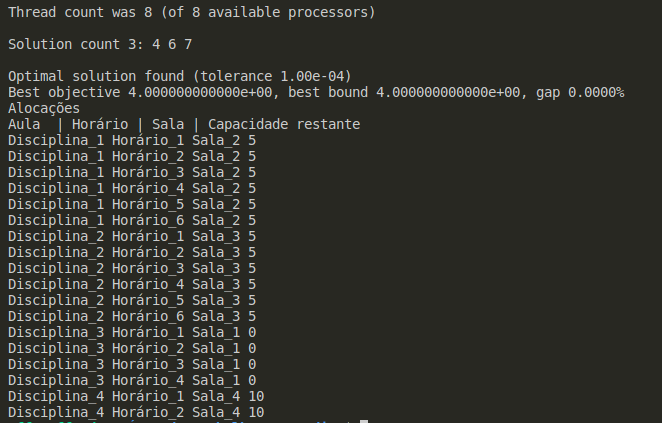
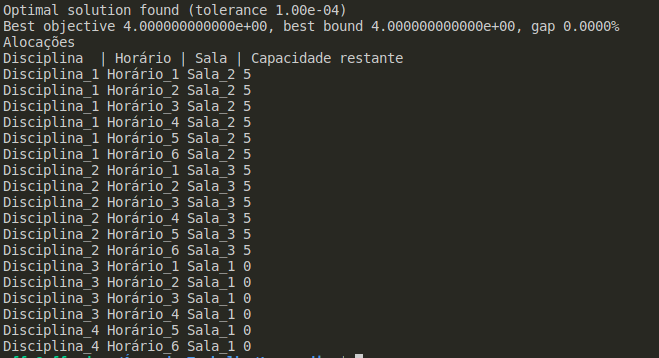
Corrige horarios das aulas nos dados de exemplo

Changed region(s): [[0.0, 0.0, 0.9408, 1.0], [0.5159, 0.9832, 0.5766, 1.0], [0.4552, 0.9832, 0.4856, 1.0]]

diff --git a/pas_v2.py b/pas_v2.py
@@ -46,7 +46,7 @@ vet_aulas.append(aula3)
 
 horarios_aula4 = dict()
 for idx,horario in enumerate(range(4,6)):
-    horarios_aula4["Horário_{}".format(idx+1)]=vet_horarios[idx]
+    horarios_aula4["Horário_{}".format(idx+5)]=vet_horarios[idx]
 
 aula4 = Aula(30,horarios_aula4)
 vet_aulas.append(aula4)
@@ -81,7 +81,6 @@ m.setObjective(gp.quicksum(y[d,s] for d in disciplinas for s in salas),
 # Restricoes
 
 # No máximo uma disciplina (turma) pode ser alocada a uma sala em um determinado horário:
-# Como pode ter o h dentro e fora do quicksum?
 c1 = m.addConstrs(
     gp.quicksum(x[d, s, h] for d in disciplinas if h in disciplinas[d].horarios) <= 1
     for s in salas for h in horarios
@@ -106,15 +105,14 @@ c4 = m.addConstrs(
 c5 = m.addConstrs(
     y[d,s] >= x[d,s,h] for d in disciplinas for s in salas for h in disciplinas[d].horarios)
 
-m.update()
 m.optimize()
 
 
 print("Alocações")
-print("Aula  | Horário | Sala | Capacidade restante")
+print("Disciplina  | Horário | Sala | Capacidade restante")
 for d in disciplinas:
-    for h in horarios:
-        for s in salas:
+    for s in salas:
+        for h in horarios:
             #print(x[d,s,h].X)
             if(round(x[d,s,h].X))==1:
                 print(d,h,s,(salas[s].capacidade-disciplinas[d].alunos))

diff --git a/pas_v1.py b/pas_v1.py
@@ -49,7 +49,7 @@ vet_aulas.append(aula3)
 
 horarios_aula4 = dict()
 for idx,horario in enumerate(range(4,6)):
-    horarios_aula4["Horário_{}".format(idx+1)]=vet_horarios[idx]
+    horarios_aula4["Horário_{}".format(idx+5)]=vet_horarios[idx]
 
 aula4 = Aula(30,horarios_aula4)
 vet_aulas.append(aula4)
